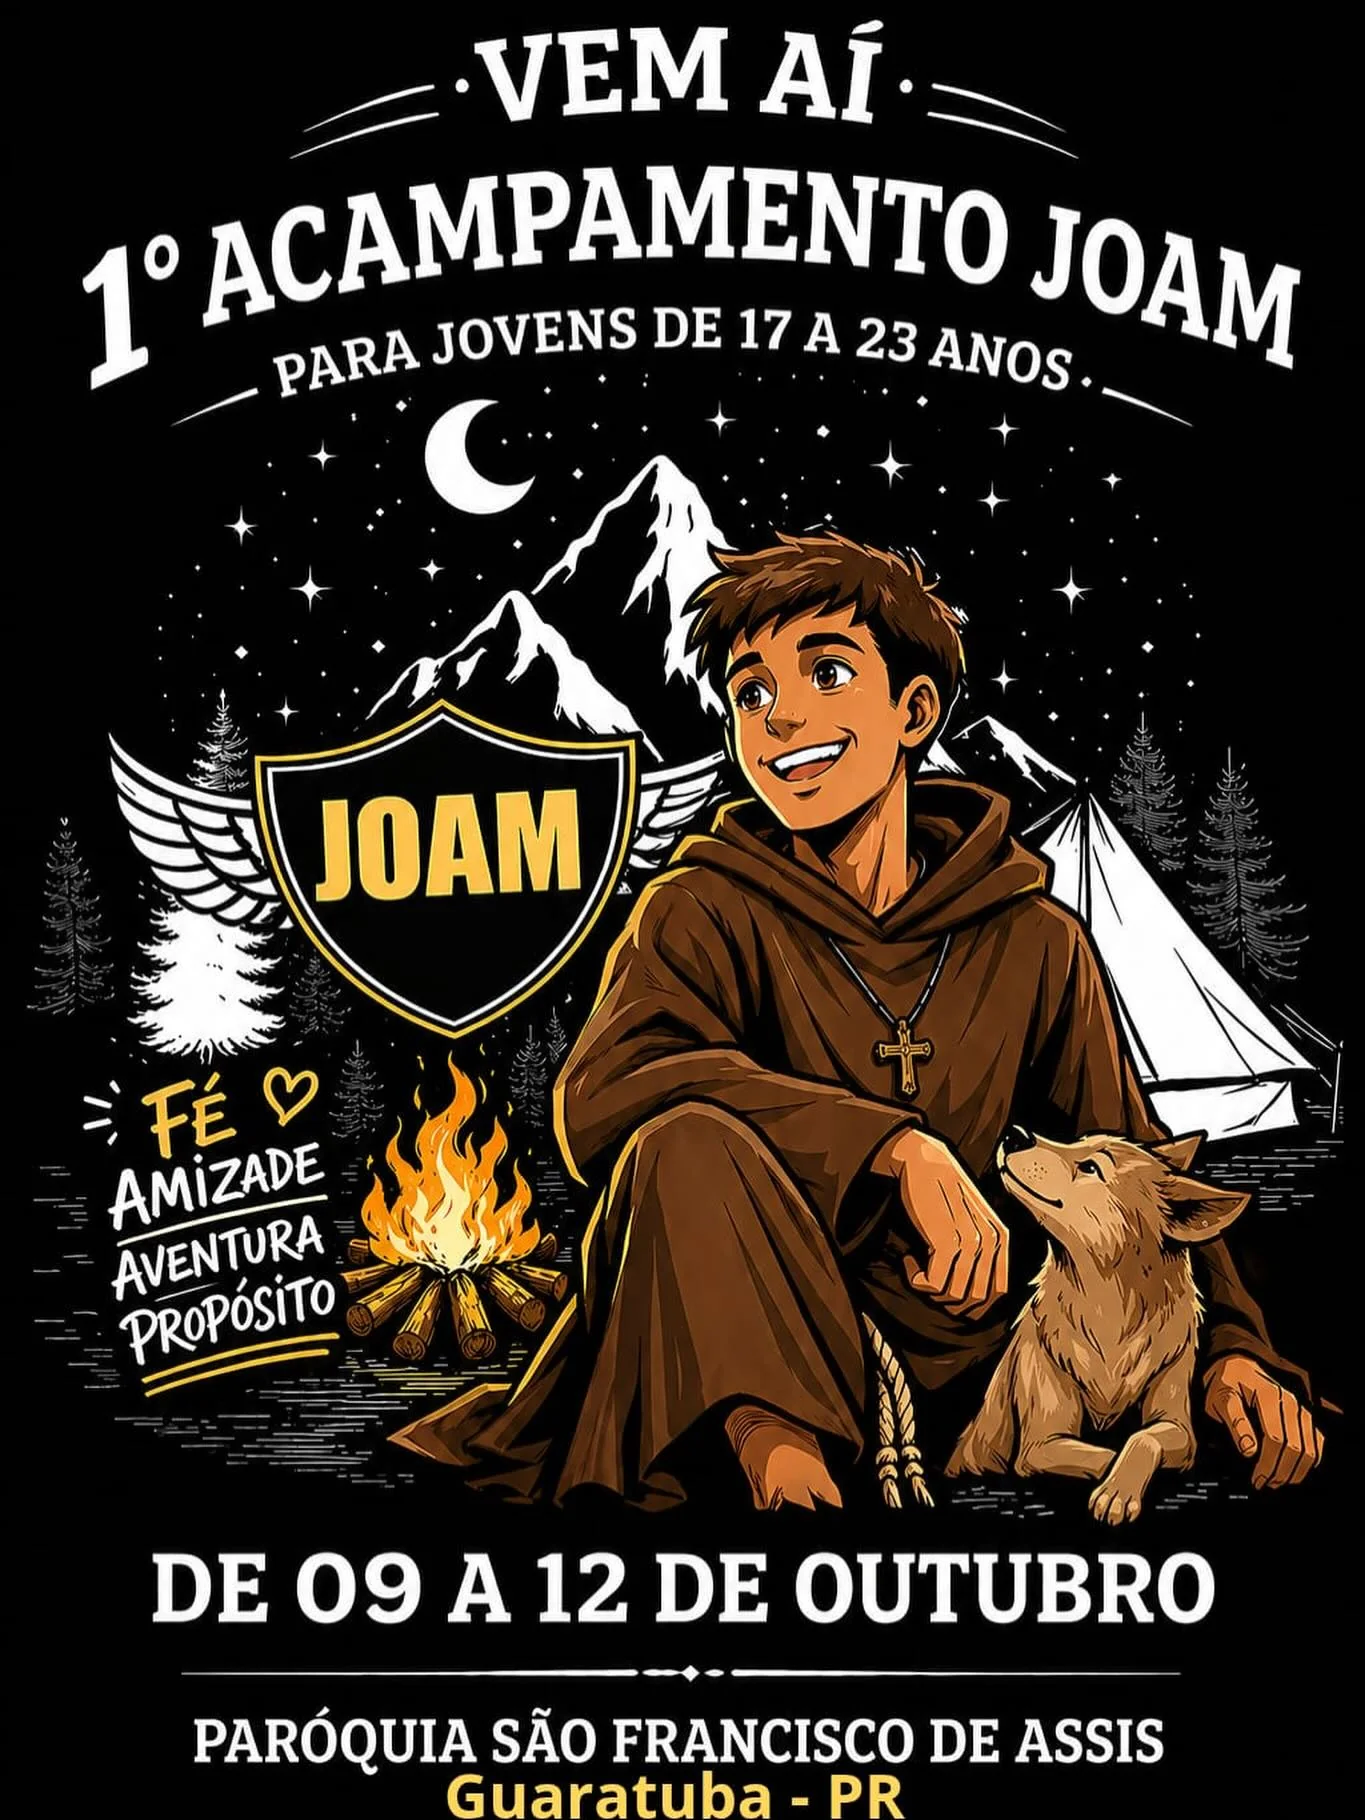
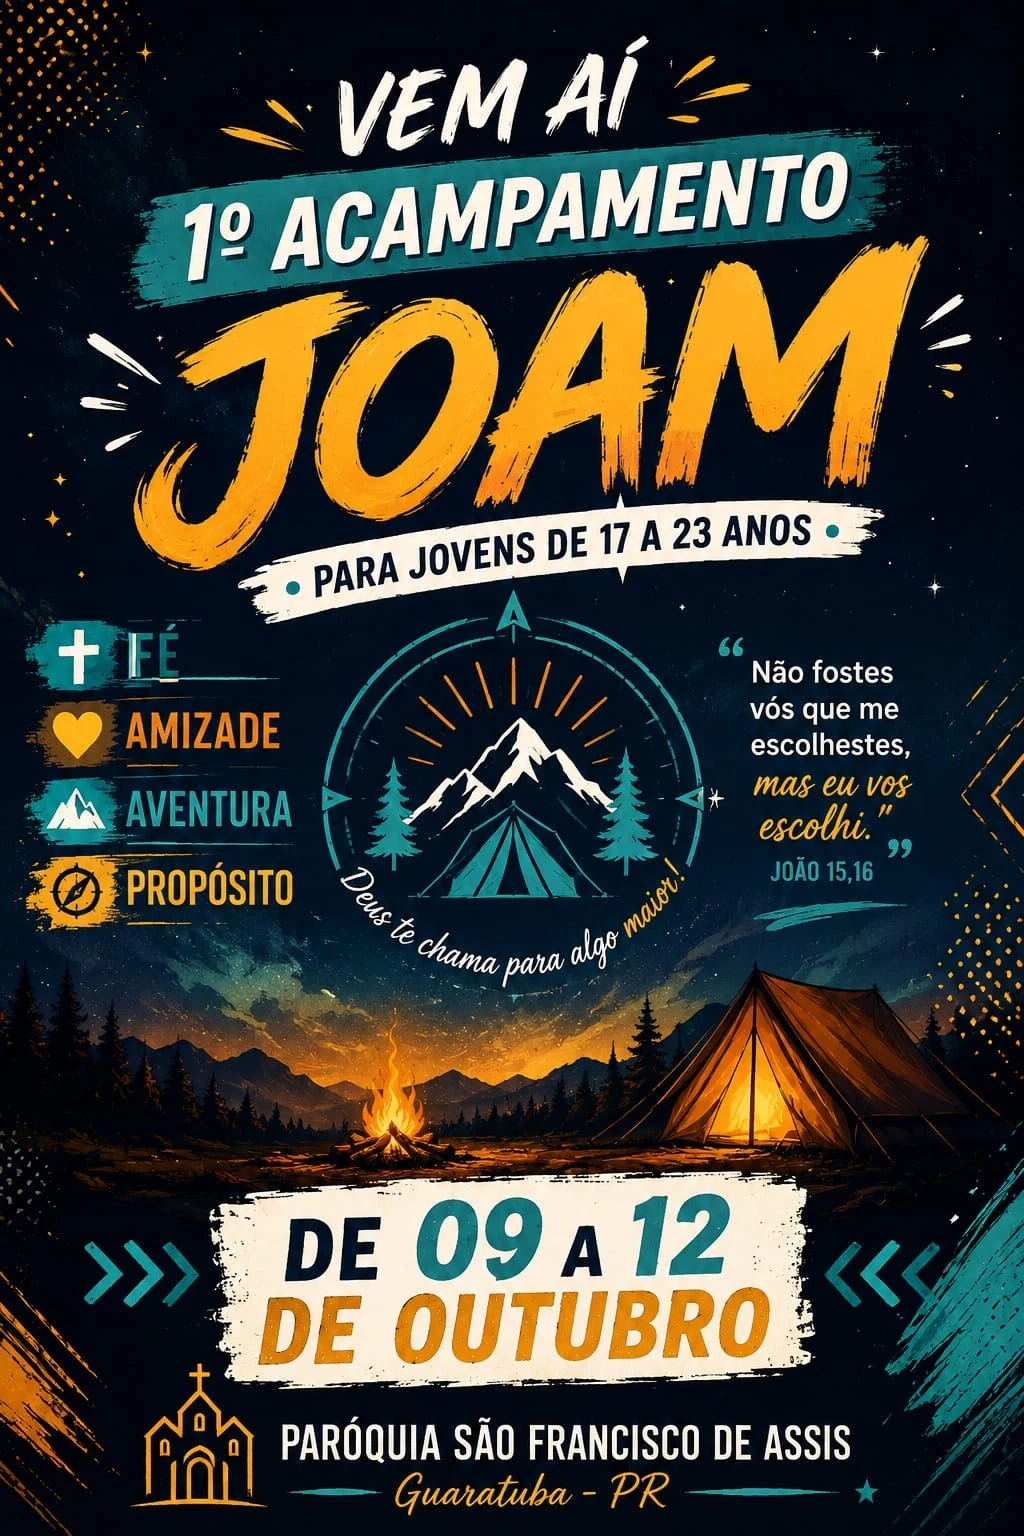
feat(acampamento): atualiza flyer do JOAM com imagem oficial do formulario e adiciona botao de inscricao para campista

diff --git a/acampamento.html b/acampamento.html
@@ -170,9 +170,12 @@
                         <li style="margin-bottom: 10px;"><i class="fas fa-cross" style="color: var(--color-secondary); margin-right: 10px;"></i> <strong>Espiritualidade Franciscana</strong> profunda</li>
                         <li><i class="fas fa-users" style="color: var(--color-secondary); margin-right: 10px;"></i> <strong>Comunidade</strong> ativa e unida</li>
                     </ul>
-                    <div>
-                        <a href="https://www.instagram.com/joamguaratuba/" target="_blank" rel="noopener noreferrer" class="btn" style="background: linear-gradient(45deg, #f09433 0%, #e6683c 25%, #dc2743 50%, #cc2366 75%, #bc1888 100%); color: white;">
+                    <div style="display: flex; gap: 15px; flex-wrap: wrap;">
+                        <a href="https://www.instagram.com/joamguaratuba/" target="_blank" rel="noopener noreferrer" class="btn" style="background: linear-gradient(45deg, #f09433 0%, #e6683c 25%, #dc2743 50%, #cc2366 75%, #bc1888 100%); color: white; border: none; box-shadow: var(--shadow-medium);">
                             <i class="fab fa-instagram" style="margin-right: 10px; font-size: 1.2rem;"></i> Siga o JOAM
+                        </a>
+                        <a href="https://docs.google.com/forms/d/e/1FAIpQLSd4ybvyAHf2TTSLeVeHpMEz1uBmMrps4nIH_sWXiZTgbEOSLA/viewform" target="_blank" rel="noopener noreferrer" class="btn btn-primary" style="background-color: var(--color-secondary); color: #1a1513; border: none; font-weight: bold; box-shadow: var(--shadow-medium);">
+                            <i class="fas fa-edit" style="margin-right: 10px; font-size: 1.2rem;"></i> Inscreva-se
                         </a>
                     </div>
                 </div>
